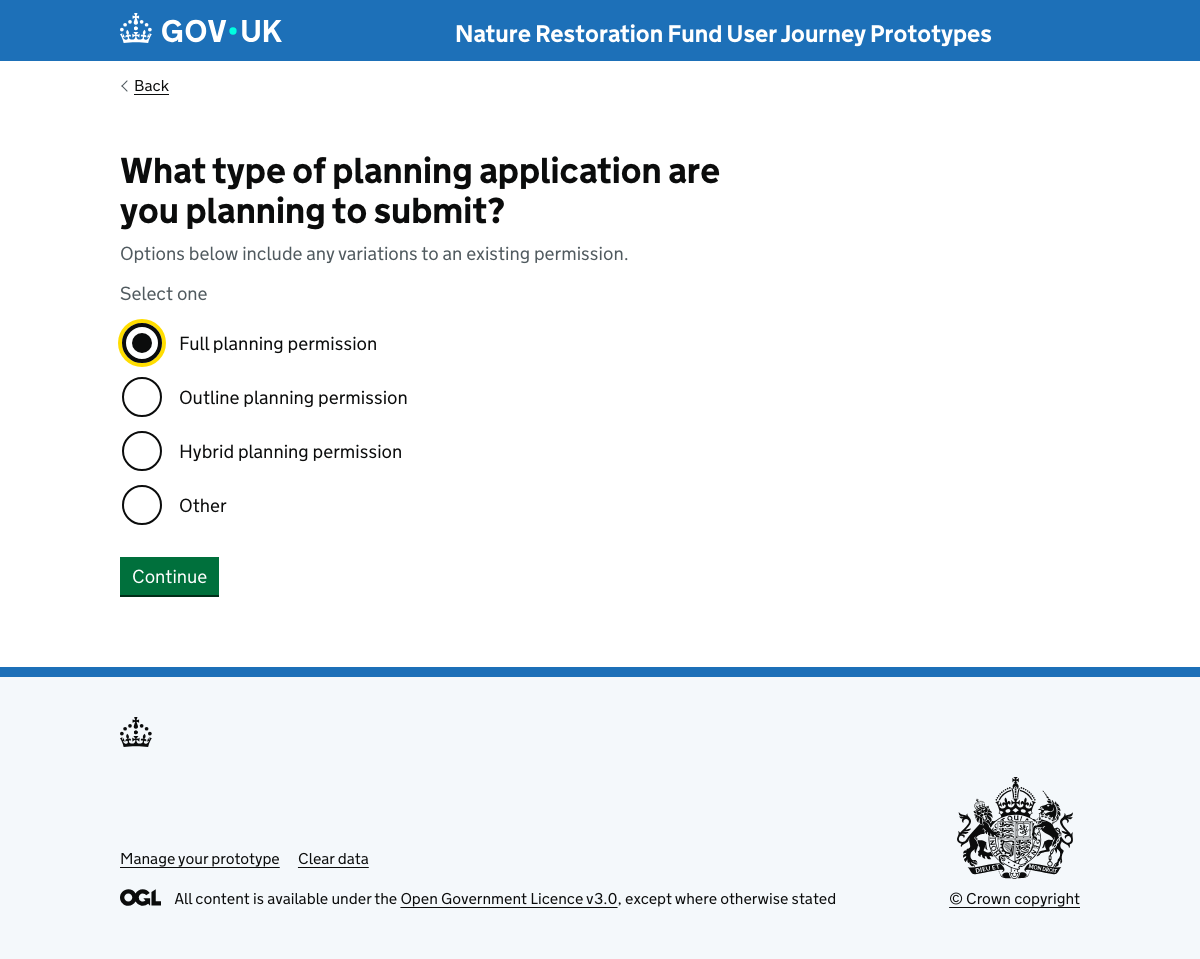
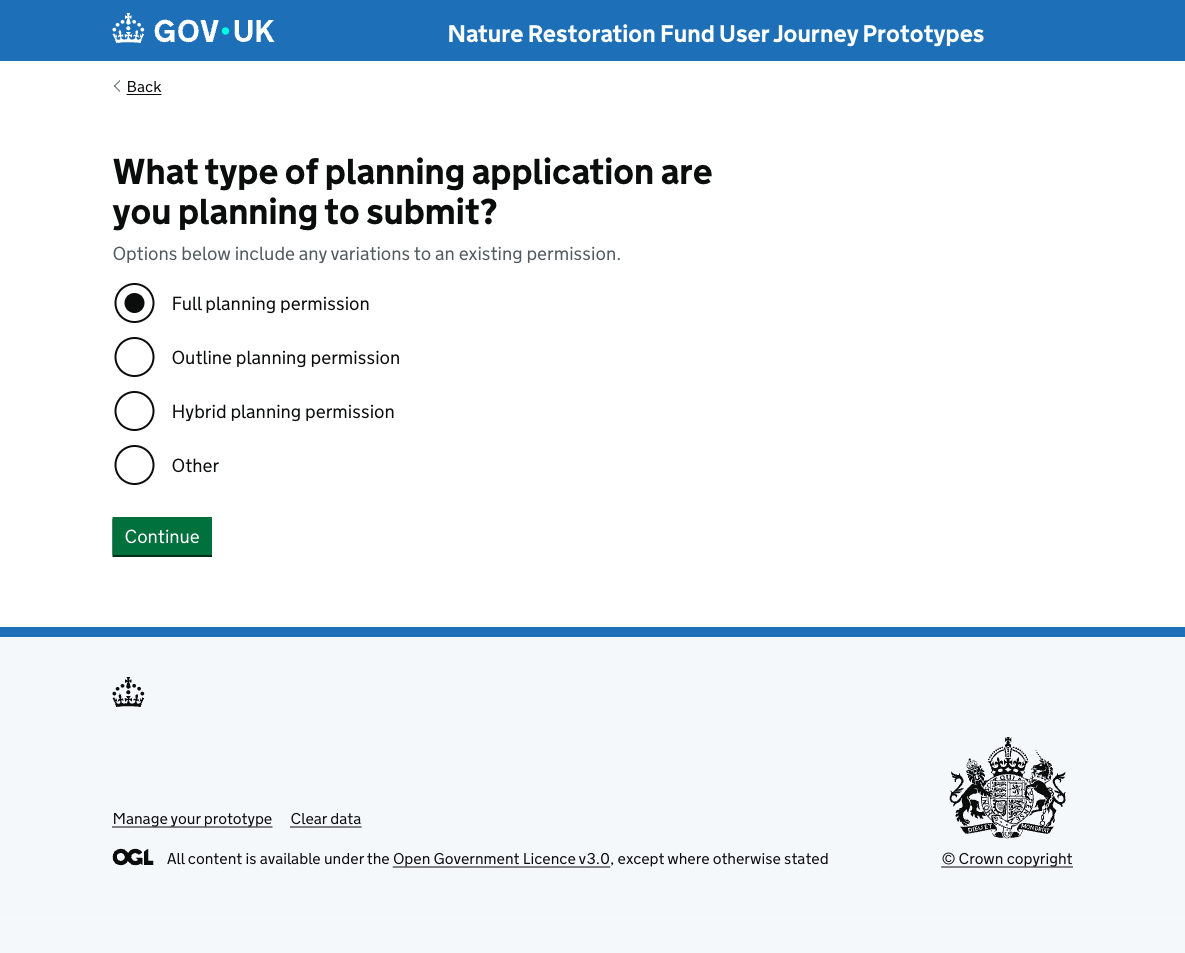
update email errors

diff --git a/app/lib/nrf-estimate-3/validators.js b/app/lib/nrf-estimate-3/validators.js
@@ -7,7 +7,7 @@ function validateEmail(email) {
   if (!email || email.trim() === '') {
     return {
       valid: false,
-      error: 'Enter your email address to continue'
+      error: 'Enter your email address'
     }
   }
 

diff --git a/app/views/nrf-quote-6/planning-type.html b/app/views/nrf-quote-6/planning-type.html
@@ -32,7 +32,6 @@ What type of planning application are you planning to submit? - Get a quote for 
             </h1>
           </legend>
           <div class="govuk-hint">Options below include any variations to an existing permission.</div>
-          <div class="govuk-hint">Select one</div>
 
           {% if error %}
           <p id="planning-type-error" class="govuk-error-message">